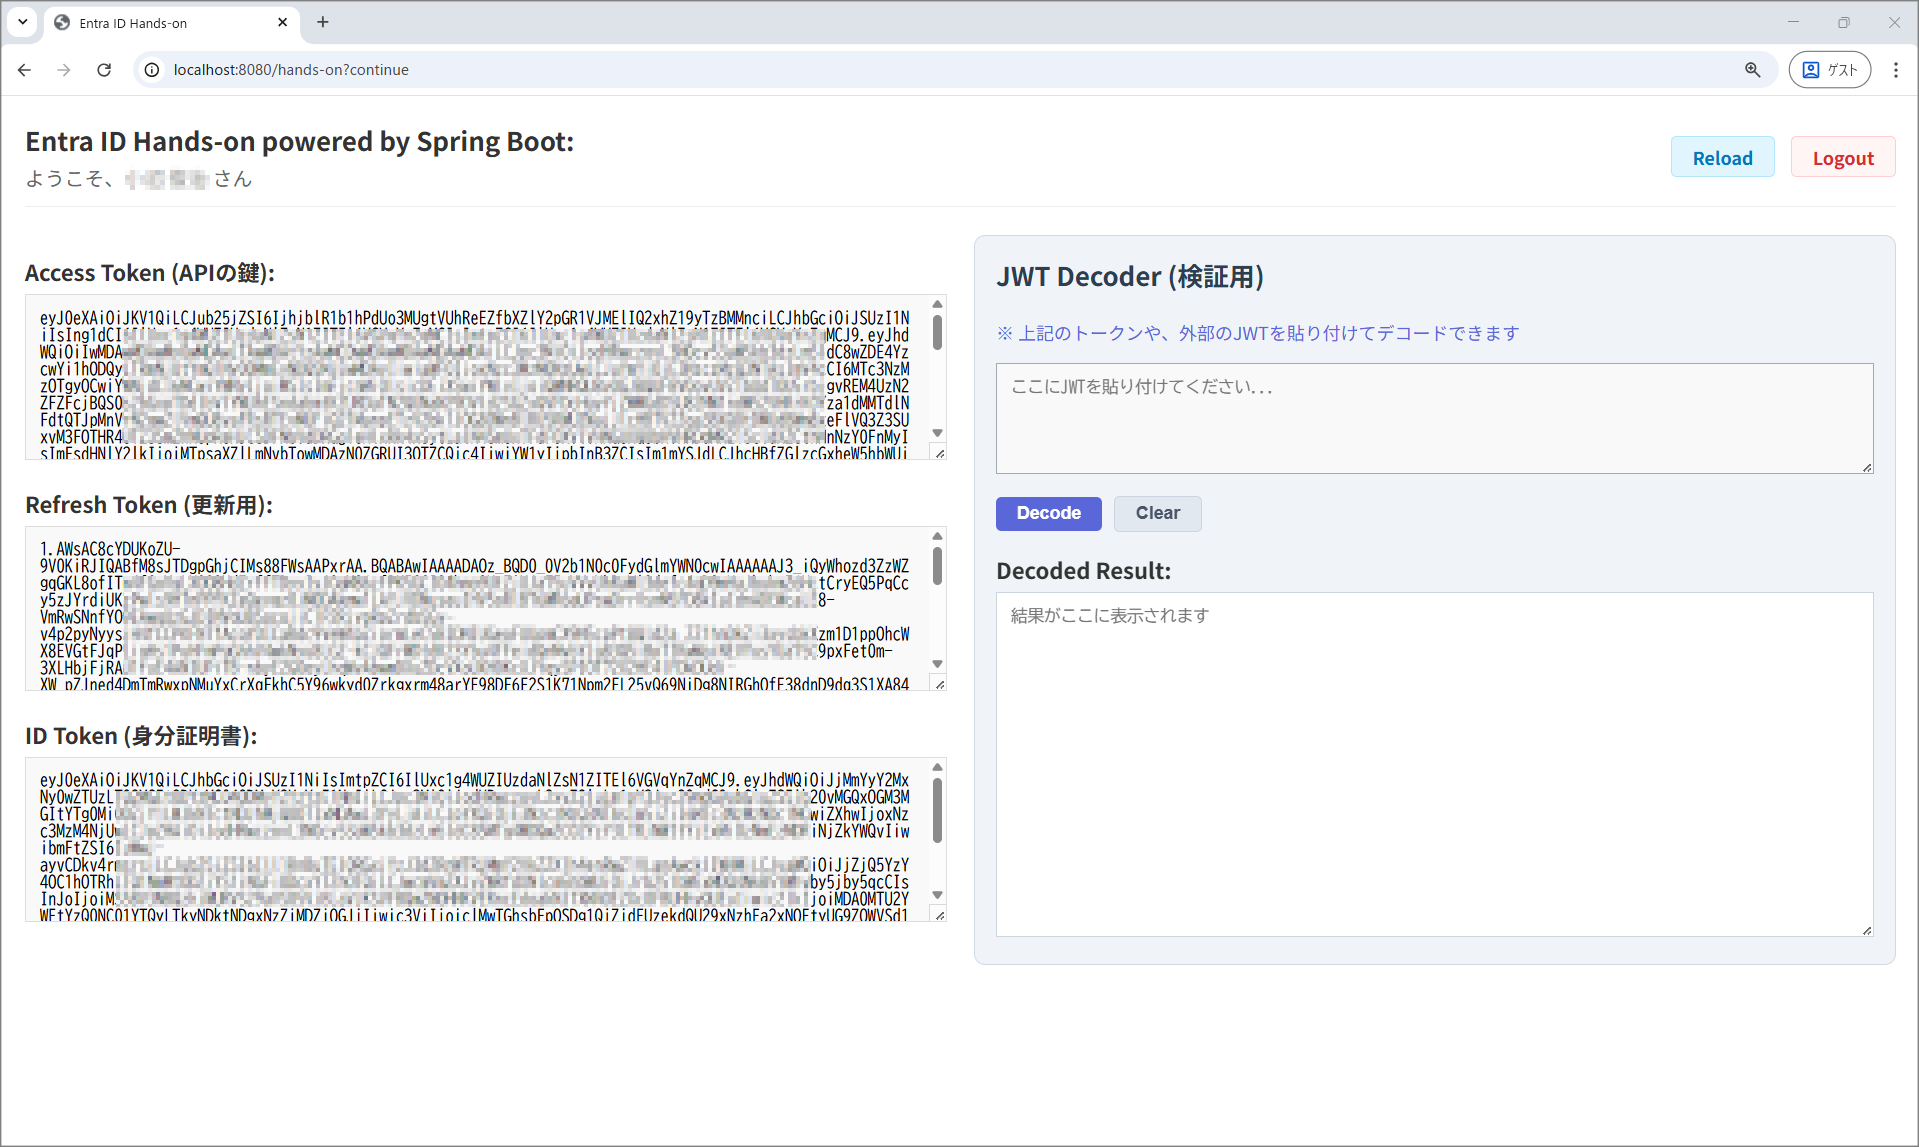
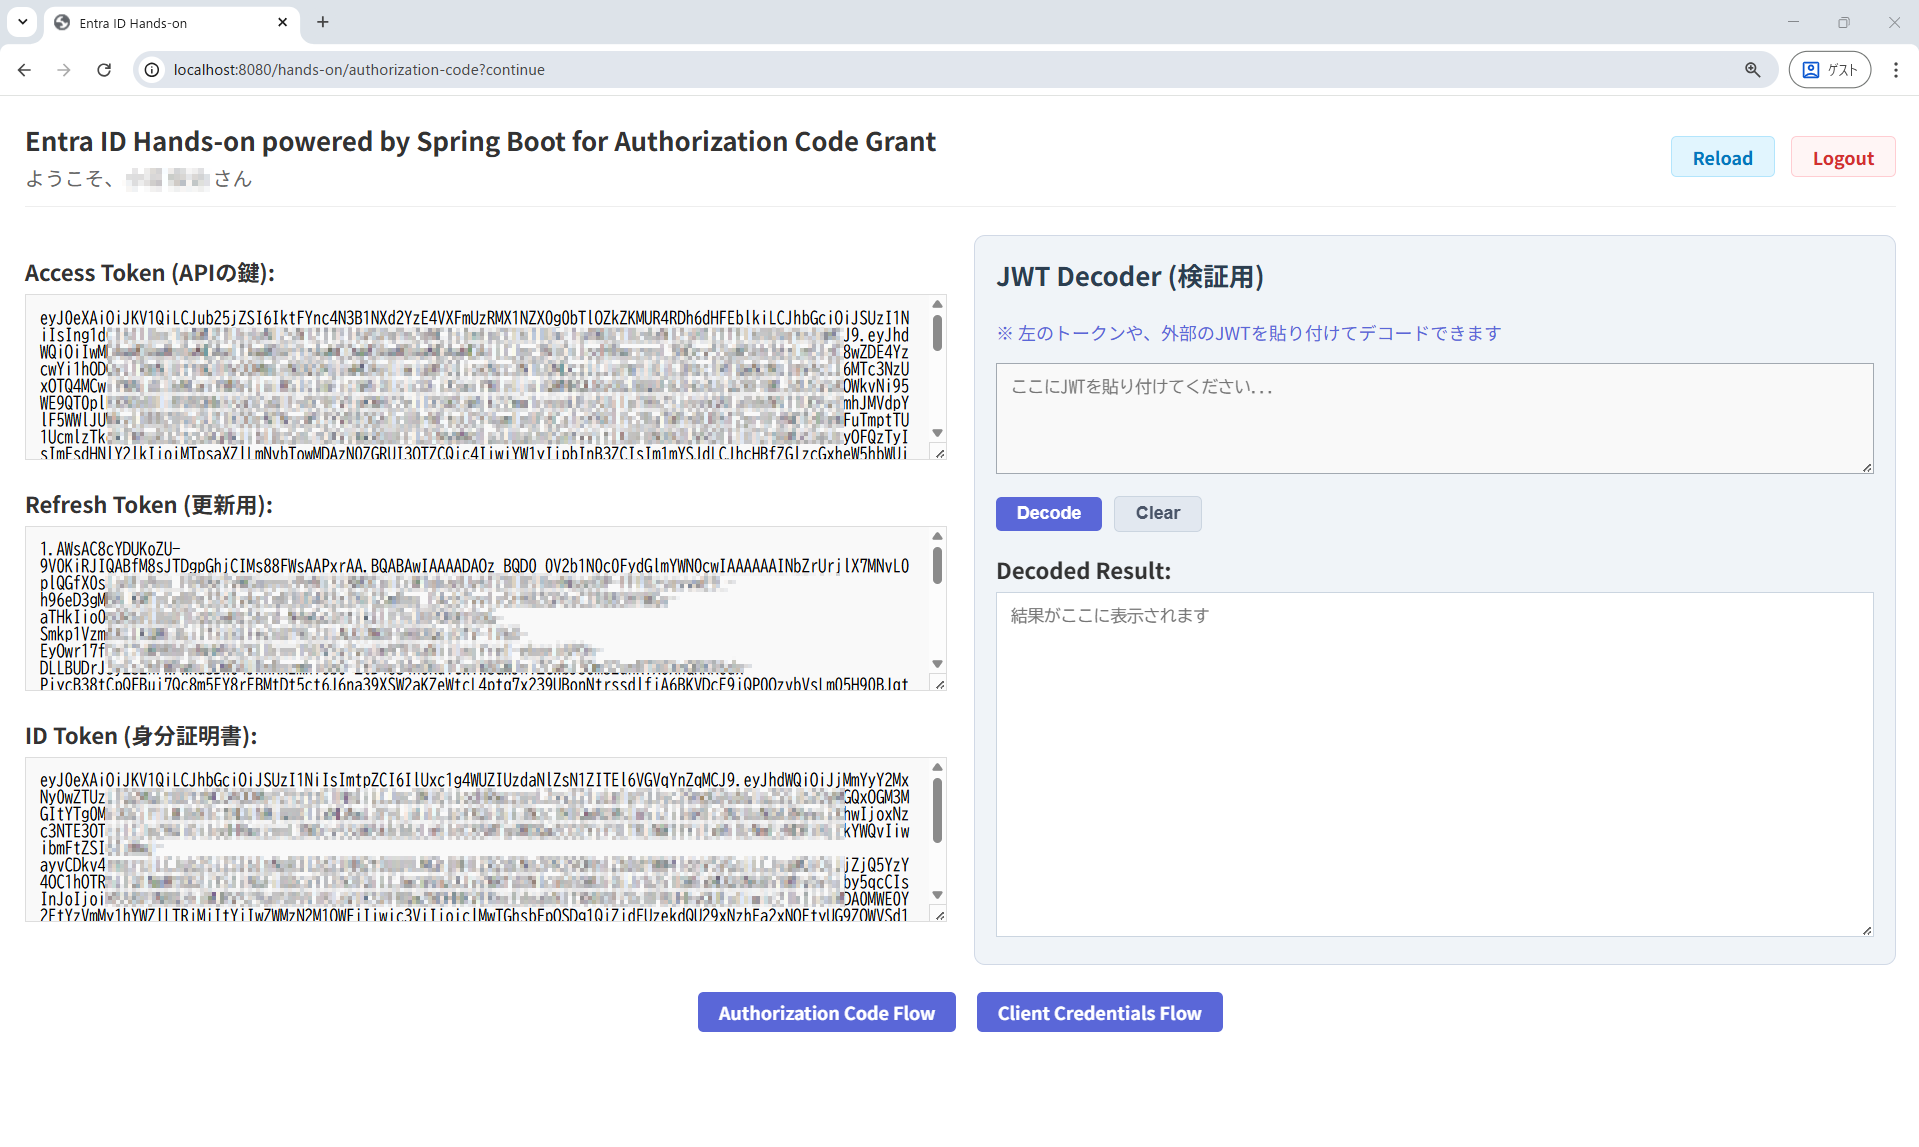
improved a design to show difference of grant type

diff --git a/ms-entra-id-free/msal/webapp/src/main/resources/templates/include/body-header-auth-code.html b/ms-entra-id-free/msal/webapp/src/main/resources/templates/include/body-header-auth-code.html
@@ -1,10 +1,10 @@
 <div class="header">
     <div class="title-group">
-        <div class="main-title" th:text="'Entra ID Hands-on powered by Spring Boot: for ' + ${grantType}"></div>
+        <div class="main-title" th:text="'Entra ID Hands-on powered by Spring Boot for Authorization Code Grant'"></div>
         <div class="sub-title" th:text="${'ようこそ、' + userName + ' さん'}">ようこそ、ゲスト さん</div>
     </div>
     <div>
         <a href="javascript:location.reload();" class="btn reload-btn">Reload</a>
-        <a href="/logout" class="btn logout-btn">Logout</a>
+        <a th:href="'/logout'" class="btn logout-btn">Logout</a>
     </div>
 </div>

diff --git a/ms-entra-id-free/msal/webapp/src/main/resources/templates/include/body-header-client-cred.html b/ms-entra-id-free/msal/webapp/src/main/resources/templates/include/body-header-client-cred.html
@@ -1,0 +1,10 @@
+<div class="header">
+    <div class="title-group">
+        <div class="main-title" th:text="'Entra ID Hands-on powered by Spring Boot for Client Credentials Grant'"></div>
+        <div class="sub-title" th:text="${'ようこそ、' + userName + ' さん'}">ようこそ、ゲスト さん</div>
+    </div>
+    <div>
+        <a href="javascript:location.reload();" class="btn reload-btn">Reload</a>
+        <a th:href="null" class="btn logout-btn" th:classappend="'disabled'">Logout</a>
+    </div>
+</div>

diff --git a/ms-entra-id-free/msal/webapp/src/main/resources/static/css/authorization-grant.css b/ms-entra-id-free/msal/webapp/src/main/resources/static/css/authorization-grant.css
@@ -51,6 +51,14 @@ textarea {
 .logout-btn {
     color: #d32f2f; border: 1px solid #ffcdd2; background-color: #fff5f5;
 }
+.logout-btn.disabled {
+    background-color: #f5f5f5; /* グレーアウト */
+    color: #999;               /* 文字を薄く */
+    border: 1px solid #ddd;    /* 枠線を薄く */
+    cursor: not-allowed;       /* カーソルを禁止マークに */
+    pointer-events: none;      /* クリックイベントを完全に無効化 */
+    box-shadow: none;
+}
 
 /* 境界線 */
 .divider {

diff --git a/ms-entra-id-free/msal/webapp/src/main/resources/templates/client-credentials.html b/ms-entra-id-free/msal/webapp/src/main/resources/templates/client-credentials.html
@@ -2,7 +2,7 @@
 <html xmlns:th="http://www.thymeleaf.org">
 <head th:replace="~{include/head}"></head>
 <body>
-<div th:replace="~{include/body-header}">header</div>
+<div th:replace="~{include/body-header-client-cred}">header</div>
 <div class="main-container">
     <div th:replace="~{include/body-main-token-client-cred}">token</div>
     <div th:replace="~{include/body-main-decode}">decode</div>

diff --git a/ms-entra-id-free/msal/webapp/src/main/resources/templates/authorization-code.html b/ms-entra-id-free/msal/webapp/src/main/resources/templates/authorization-code.html
@@ -2,7 +2,7 @@
 <html xmlns:th="http://www.thymeleaf.org">
 <head th:replace="~{include/head}"></head>
 <body>
-<div th:replace="~{include/body-header}">header</div>
+<div th:replace="~{include/body-header-auth-code}">header</div>
 <div class="main-container">
     <div th:replace="~{include/body-main-token-auth-code}">token</div>
     <div th:replace="~{include/body-main-decode}">decode</div>

diff --git a/ms-entra-id-free/msal/webapp/src/main/java/jp/sios/apisl/handson/entraid/msal/controller/HandsonController.java b/ms-entra-id-free/msal/webapp/src/main/java/jp/sios/apisl/handson/entraid/msal/controller/HandsonController.java
@@ -43,7 +43,6 @@ public class HandsonController {
 		String idToken = oidcUser.getIdToken().getTokenValue();
 		String userName = oidcUser.getFullName();
 
-		model.addAttribute("grantType", "Authorization Code Grant");
 		model.addAttribute("accessToken", accessToken);
         model.addAttribute("refreshToken", refreshToken);
         model.addAttribute("idToken", idToken);
@@ -72,7 +71,7 @@ public class HandsonController {
         String refreshToken = "Client Credentials flow does not issue refresh tokens.";        
         String idToken = "Client Credentials flow does not issue ID tokens (No user involved).";
 		String userName = "System (Application Identity)";
-        model.addAttribute("grantType", "Client Credentials Grant");
+
         model.addAttribute("accessToken", accessToken);
         model.addAttribute("refreshToken", refreshToken);
         model.addAttribute("idToken", idToken);
